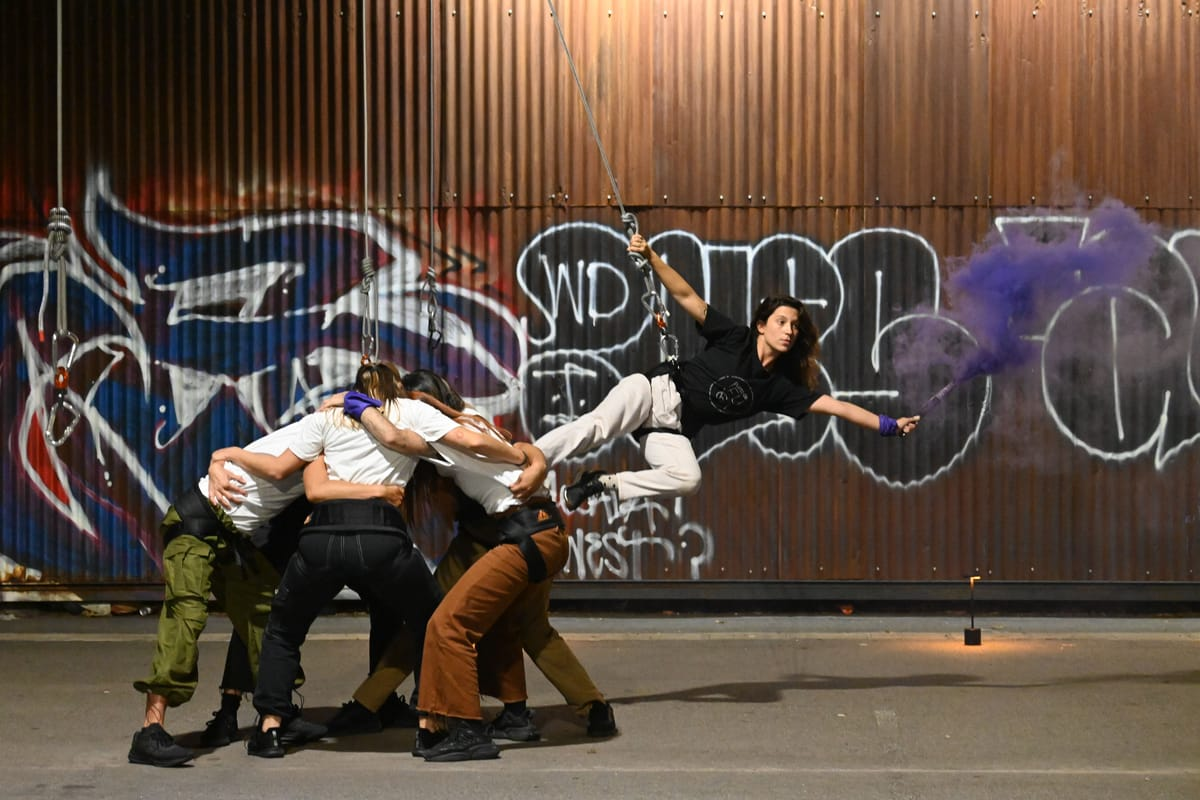
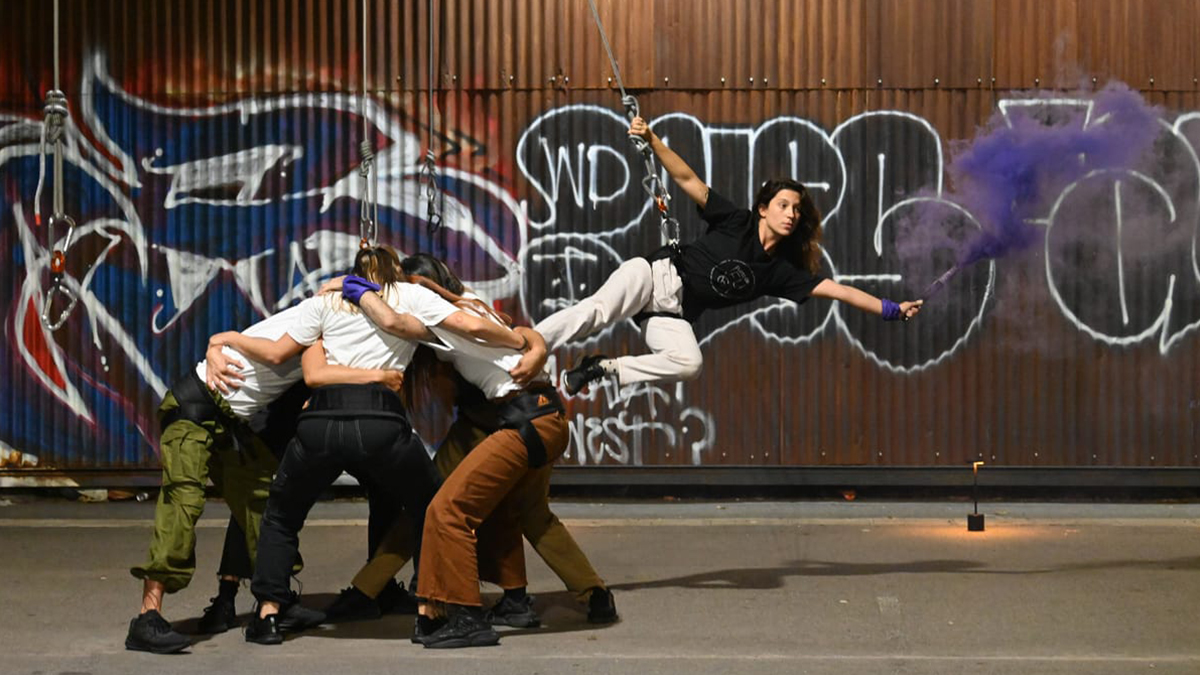
Agrega segunda foto de Anaclara en carrusel Somos + portadas optimizadas

diff --git a/data.js b/data.js
@@ -13,7 +13,7 @@ window.PDF_DATA = {
       { nombre: "Agustina Leiva" },
       { nombre: "Florencia Mazzucco", fotos: ["assets/somos/flo-100.jpg"] },
       { nombre: "Leticia Moreno" },
-      { nombre: "Anaclara Oyenart", fotos: ["assets/somos/Anaclara.jpg"] },
+      { nombre: "Anaclara Oyenart", fotos: ["assets/somos/Anaclara.jpg", "assets/somos/Anaclara-2.jpg"] },
       { nombre: "Stella Peña" },
       { nombre: "Agustina Rodríguez" },
       { nombre: "Diego Ruella" },
